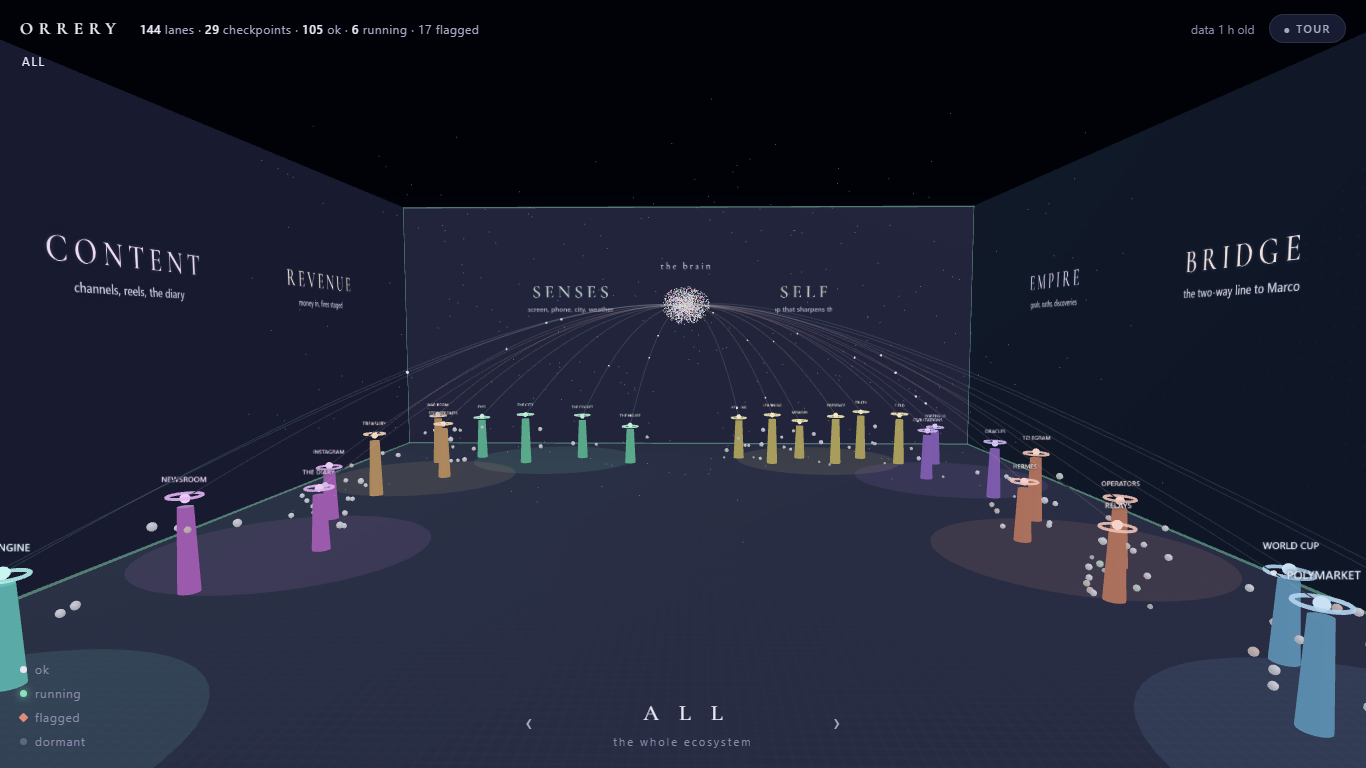
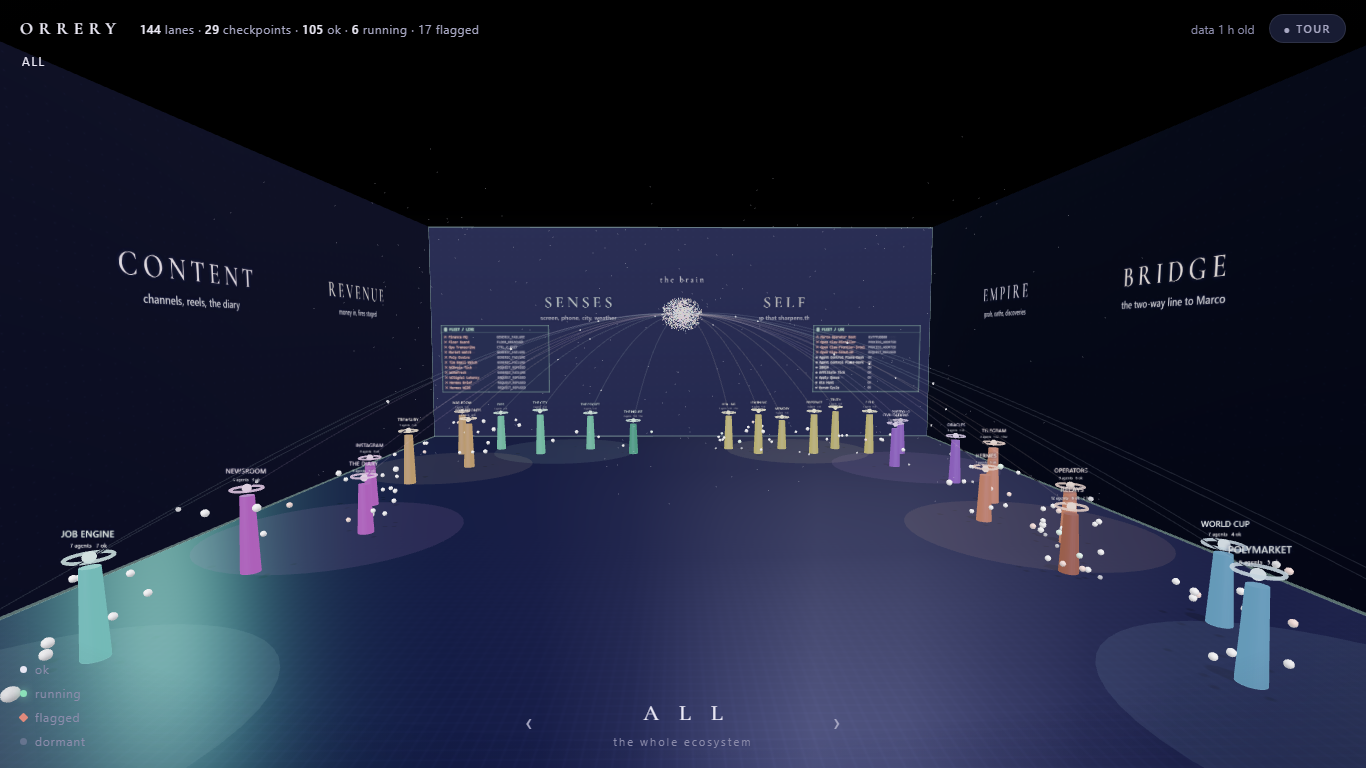
v6: physically-based room — ACES + IBL + shadows, live wall terminals from fleet data, handheld drift, 10s tour

diff --git a/index.html b/index.html
@@ -37,6 +37,10 @@
     overflow: hidden; -webkit-font-smoothing: antialiased;
   }
   #sky { position: fixed; inset: 0; display: block; touch-action: none; }
+  body::after {
+    content: ''; position: fixed; inset: 0; pointer-events: none; z-index: 4;
+    background: radial-gradient(ellipse 130% 105% at 50% 42%, transparent 52%, rgba(8,10,24,.5) 100%);
+  }
 
   #intro {
     position: fixed; inset: 0; display: grid; place-items: center; text-align: center;
@@ -253,6 +257,7 @@
 
 <script type="module">
 import * as THREE from 'three';
+import { RoomEnvironment } from 'three/addons/environments/RoomEnvironment.js';
 
 /* ============================== data ============================== */
 const SAMPLE = {
@@ -289,10 +294,14 @@ let selected = null, focusIdx = -1, query = '', entered = false, reel = false, t
 /* ============================== three scene ============================== */
 const renderer = new THREE.WebGLRenderer({ canvas, antialias: true, alpha: false });
 renderer.setPixelRatio(Math.min(devicePixelRatio, 2));
+renderer.toneMapping = THREE.ACESFilmicToneMapping;
+renderer.toneMappingExposure = 1.02;
+renderer.shadowMap.enabled = true;
+renderer.shadowMap.type = THREE.PCFSoftShadowMap;
 const scene = new THREE.Scene();
 scene.background = new THREE.Color(0x14172b);
 scene.fog = new THREE.Fog(0x14172b, 1300, 3200);
-const camera = new THREE.PerspectiveCamera(54, 1, 1, 4000);
+const camera = new THREE.PerspectiveCamera(60, 1, 1, 4000);
 camera.position.set(0, 260, 1500);
 
 /* the diorama rig — the camera lives INSIDE the room; mouse parallax sells the depth */
@@ -313,9 +322,16 @@ addEventListener('wheel', e => {
 }, { passive: true });
 function flyTo(px, py, pz, tx, ty, tz) { camGoal.pos.set(px, py, pz); camGoal.tgt.set(tx, ty, tz); camGoal.active = true; }
 
-scene.add(new THREE.AmbientLight(0x8a8fc0, .6));
-const key = new THREE.DirectionalLight(0xf0eeff, .8); key.position.set(200, 600, 500); scene.add(key);
-const rim = new THREE.DirectionalLight(0x8be2b9, .25); rim.position.set(-400, 300, -500); scene.add(rim);
+/* image-based lighting — materials get real specular response */
+scene.environment = new THREE.PMREMGenerator(renderer).fromScene(new RoomEnvironment(), .06).texture;
+scene.environmentIntensity = .16;
+scene.add(new THREE.AmbientLight(0x8a8fc0, .3));
+const key = new THREE.DirectionalLight(0xf0eeff, 1.05); key.position.set(120, 900, 240); scene.add(key);
+key.castShadow = true;
+key.shadow.mapSize.set(2048, 2048);
+Object.assign(key.shadow.camera, { left: -760, right: 760, top: 980, bottom: -980, near: 1, far: 2200 });
+key.shadow.bias = -.0004;
+const rim = new THREE.DirectionalLight(0x8be2b9, .3); rim.position.set(-400, 300, -500); scene.add(rim);
 
 /* THE ROOM — the screen is the open face of a box; everything lives inside it */
 const ROOM = { hw: 620, depth: 850, h: 520 };   // walls at x=±hw, back at z=-depth, open front at z=+depth
@@ -341,18 +357,20 @@ const ROOM = { hw: 620, depth: 850, h: 520 };   // walls at x=±hw, back at z=-d
   const floorT = gridTex(false); floorT.repeat.set(8, 11);
   const wallT = gridTex(true); wallT.repeat.set(8, 3);
   const backT = gridTex(true); backT.repeat.set(6, 3);
-  const mat = (t) => new THREE.MeshStandardMaterial({ map: t, color: 0xffffff, roughness: .88, metalness: .18 });
+  const mat = (t) => new THREE.MeshStandardMaterial({ map: t, color: 0x8286ad, roughness: .82, metalness: .2 });
 
-  const floor = new THREE.Mesh(new THREE.PlaneGeometry(ROOM.hw * 2, ROOM.depth * 2), mat(floorT));
-  floor.rotation.x = -Math.PI / 2; scene.add(floor);
+  /* glossy floor — env reflections + received shadows anchor everything to it */
+  const floor = new THREE.Mesh(new THREE.PlaneGeometry(ROOM.hw * 2, ROOM.depth * 2),
+    new THREE.MeshStandardMaterial({ map: floorT, color: 0x8e93c2, roughness: .36, metalness: .5 }));
+  floor.rotation.x = -Math.PI / 2; floor.receiveShadow = true; scene.add(floor);
   const ceil = new THREE.Mesh(new THREE.PlaneGeometry(ROOM.hw * 2, ROOM.depth * 2), new THREE.MeshStandardMaterial({ color: 0x10132a, roughness: .95 }));
   ceil.rotation.x = Math.PI / 2; ceil.position.y = ROOM.h; scene.add(ceil);
   const left = new THREE.Mesh(new THREE.PlaneGeometry(ROOM.depth * 2, ROOM.h), mat(wallT));
-  left.rotation.y = Math.PI / 2; left.position.set(-ROOM.hw, ROOM.h / 2, 0); scene.add(left);
+  left.rotation.y = Math.PI / 2; left.position.set(-ROOM.hw, ROOM.h / 2, 0); left.receiveShadow = true; scene.add(left);
   const right = new THREE.Mesh(new THREE.PlaneGeometry(ROOM.depth * 2, ROOM.h), mat(wallT));
-  right.rotation.y = -Math.PI / 2; right.position.set(ROOM.hw, ROOM.h / 2, 0); scene.add(right);
+  right.rotation.y = -Math.PI / 2; right.position.set(ROOM.hw, ROOM.h / 2, 0); right.receiveShadow = true; scene.add(right);
   const back = new THREE.Mesh(new THREE.PlaneGeometry(ROOM.hw * 2, ROOM.h), mat(backT));
-  back.position.set(0, ROOM.h / 2, -ROOM.depth); scene.add(back);
+  back.position.set(0, ROOM.h / 2, -ROOM.depth); back.receiveShadow = true; scene.add(back);
 
   /* neon edge strips where surfaces meet — the box reads as a box */
   const strip = (w, x, y, z, rotY) => {
@@ -422,7 +440,7 @@ function makePlate(text, opts) {
 
 /* ============================== build world from data ============================== */
 const world = new THREE.Group(); scene.add(world);
-let agentMesh = null, agentData = [], hubMeshes = [], zoneDiscs = [], beams = [], pulseMeshes = [];
+let agentMesh = null, agentData = [], hubMeshes = [], zoneDiscs = [], beams = [], pulseMeshes = [], pillarAnims = [], terms = [];
 const brain = new THREE.Group(); scene.add(brain);
 
 function hsl(h, s, l) { const c = new THREE.Color(); c.setHSL(h / 360, s, l); return c; }
@@ -432,7 +450,7 @@ const STATUS_COLOR = {
 };
 
 function buildWorld() {
-  world.clear(); brain.clear(); hubMeshes = []; zoneDiscs = []; beams = []; pulseMeshes = []; agentData = [];
+  world.clear(); brain.clear(); hubMeshes = []; zoneDiscs = []; beams = []; pulseMeshes = []; agentData = []; pillarAnims = []; terms = [];
 
   /* the brain — a particle heart floating over the center of the base */
   {
@@ -502,7 +520,10 @@ function buildWorld() {
       );
       pillar.position.set(hx, H / 2, hz);
       pillar.userData = { kind: 'hub', dept: d.id, group: g.id };
+      pillar.castShadow = true;
       zone.add(pillar); hubMeshes.push(pillar);
+      const members = d.nodes.filter(n => n.group === g.id);
+      pillarAnims.push({ mat: pillar.material, running: members.some(n => n.status === 'running'), phase: gi * 1.7 });
 
       const ring = new THREE.Mesh(
         new THREE.TorusGeometry(15, 1.4, 10, 48),
@@ -521,6 +542,10 @@ function buildWorld() {
 
       const hl = makeLabel(g.label.toUpperCase(), { size: 34, hue: d.hue, scale: .22 });
       hl.position.set(hx, H + 26, hz); zone.add(hl);
+      /* live readout under the name — real member counts, nothing invented */
+      const okN = members.filter(n => n.status === 'ok').length, runN = members.filter(n => n.status === 'running').length;
+      const ro = makeLabel(`${members.length} agents · ${okN} ok${runN ? ' · ' + runN + ' live' : ''}`, { size: 22, scale: .2 });
+      ro.position.set(hx, H + 17, hz); zone.add(ro);
 
       d.hubs[g.id] = { ...g, x: d.cx + hx, z: d.cz + hz, y: H + 8, localX: hx, localZ: hz, H, ring };
 
@@ -544,6 +569,7 @@ function buildWorld() {
     count
   );
   agentMesh.instanceMatrix.setUsage(THREE.DynamicDrawUsage);
+  agentMesh.castShadow = true;
   world.add(agentMesh);
   const mtx = new THREE.Matrix4();
   nodes.forEach((n, i) => {
@@ -572,6 +598,51 @@ function buildWorld() {
     m.userData = { beam: Math.floor(Math.random() * beams.length), p: Math.random(), sp: .0016 + Math.random() * .003 };
     scene.add(m); pulseMeshes.push(m);
   }
+
+  /* wall terminals — live system log rendered from the real fleet, like the floating
+     windows in the reference. Every line is a real lane's real last result. */
+  const mkTerm = (w, h, title) => {
+    const c = document.createElement('canvas'); c.width = 640; c.height = 400;
+    const tex = new THREE.CanvasTexture(c); tex.anisotropy = 4;
+    const mesh = new THREE.Mesh(new THREE.PlaneGeometry(w, h),
+      new THREE.MeshBasicMaterial({ map: tex, transparent: true, opacity: .94 }));
+    return { c, g: c.getContext('2d'), tex, mesh, title, row: 0 };
+  };
+  const termNodes = [...nodes].sort((a, b) =>
+    ({ running: 0, flag: 1, ok: 2, dormant: 3 }[a.status] - { running: 0, flag: 1, ok: 2, dormant: 3 }[b.status]));
+  const TCOL = { running: '#8be2b9', ok: '#c9c7dd', flag: '#e08a7c', dormant: '#5d6084' };
+  function drawTerm(T) {
+    const { g, c } = T;
+    g.fillStyle = 'rgba(10,12,26,.96)'; g.fillRect(0, 0, c.width, c.height);
+    g.strokeStyle = 'rgba(139,226,185,.45)'; g.lineWidth = 2; g.strokeRect(1, 1, c.width - 2, c.height - 2);
+    g.fillStyle = '#8be2b9'; g.font = '600 22px Consolas, monospace';
+    g.fillText('▮ ' + T.title, 18, 34);
+    g.fillStyle = 'rgba(139,226,185,.3)'; g.fillRect(0, 46, c.width, 1);
+    g.font = '20px Consolas, monospace';
+    for (let i = 0; i < 11; i++) {
+      const n = termNodes[(T.row + i) % termNodes.length];
+      const y = 78 + i * 30;
+      g.fillStyle = TCOL[n.status] || TCOL.ok;
+      const line = `${n.status === 'running' ? '►' : n.status === 'flag' ? '✕' : '●'} ${n.label}`;
+      g.fillText(line.slice(0, 26), 18, y);
+      g.fillStyle = 'rgba(140,140,171,.85)';
+      g.fillText(String(n.detail || n.cadence || '').slice(0, 24), 330, y);
+    }
+    T.tex.needsUpdate = true;
+  }
+  const t1 = mkTerm(268, 168, 'FLEET / LIVE');
+  t1.mesh.position.set(-462, 196, -ROOM.depth + 2.5);
+  scene.add(t1.mesh); terms.push(t1);
+  const t2 = mkTerm(268, 168, 'FLEET / LOG');
+  t2.mesh.position.set(462, 196, -ROOM.depth + 2.5); t2.row = 11;
+  scene.add(t2.mesh); terms.push(t2);
+  terms.forEach(drawTerm);
+  terms.tick = (t) => {
+    if (!terms.last || t - terms.last > 1400) {
+      terms.last = t;
+      for (const T of terms) { T.row = (T.row + 1) % termNodes.length; drawTerm(T); }
+    }
+  };
 }
 
 /* ============================== per-frame ============================== */
@@ -614,8 +685,15 @@ function frame(now) {
   const pk = reel ? 0 : (level === 0 ? 1 : .45);
   par.sx += (par.x - par.sx) * .05;
   par.sy += (par.y - par.sy) * .05;
-  camera.position.set(camBase.x + par.sx * 85 * pk, camBase.y - par.sy * 48 * pk, camBase.z);
+  /* handheld drift — the scene is never perfectly still, so depth never stops reading */
+  const dx = reduced ? 0 : Math.sin(t * .00031) * 7 + Math.sin(t * .00013) * 4;
+  const dy = reduced ? 0 : Math.sin(t * .00042 + 2) * 4;
+  camera.position.set(camBase.x + par.sx * 85 * pk + dx, camBase.y - par.sy * 48 * pk + dy, camBase.z);
   camera.lookAt(tgtBase);
+  if (!reduced) {
+    for (const pa of pillarAnims) if (pa.running) pa.mat.emissiveIntensity = .9 + Math.sin(t * .004 + pa.phase) * .38;
+    if (terms.tick) terms.tick(t);
+  }
   if (!reduced) brain.rotation.y = t * .00012;
   for (const d of deptList) if (d.hubs) for (const h of Object.values(d.hubs)) {
     if (!reduced && h.ring) { h.ring.rotation.z = t * .0004 * h.ring.userData.spin; h.ring.position.y = h.ring.userData.baseY + Math.sin(t * .0009 + h.ring.userData.spin * 9) * 2.5; }
@@ -806,29 +884,18 @@ search.addEventListener('input', () => {
 
 /* ============================== reel mode ============================== */
 function tourKeys() {
-  /* fly IN through the open face, visit two rooms, pull back out */
-  const K = [{ t: 0, pos: [0, 300, 1560], tgt: [0, 200, -350] }];
-  let t = 4200;
-  const stops = [];
-  const ig = deptList.find(d => Object.keys(d.hubs || {}).some(g => /instagram/.test(g)));
-  if (ig) stops.push([ig, 'instagram']);
-  const selfD = deptList.find(d => d.id === 'self' && d.hubs && d.hubs.healing);
-  if (selfD) stops.push([selfD, 'healing']);
-  if (!stops.length && deptList[0]) stops.push([deptList[0], Object.keys(deptList[0].hubs)[0]]);
-  for (const [d, gid] of stops) {
-    K.push({ t, pos: [d.cx + d.nx * 420, 240, d.cz + d.nz * 420], tgt: [d.cx, 90, d.cz], act: () => { close(); setLevelSilent(1, deptList.indexOf(d)); } });
-    t += 5200;
-    const hub = d.hubs[gid];
-    if (hub) {
-      K.push({ t, pos: [hub.x + d.nx * 180, hub.y + 46, hub.z + d.nz * 180], tgt: [hub.x, hub.y - 14, hub.z], act: () => setLevelSilent(2, deptList.indexOf(d), gid) });
-      t += 4800;
-      const star = d.nodes.find(n => n.group === gid && n.replaces) || d.nodes.find(n => n.group === gid);
-      if (star) { K.push({ t, pos: [hub.x + d.nx * 125, hub.y + 24, hub.z + d.nz * 125], tgt: [hub.x, hub.y - 18, hub.z], act: () => open(star) }); t += 5600; }
-    }
-  }
-  K.push({ t, pos: [0, 260, 810], tgt: [0, 170, -350], act: () => { close(); setLevelSilent(0); } });
-  K.push({ t: t + 5000, pos: [0, 290, 1350], tgt: [0, 190, -350] });
-  return K;
+  /* exactly 10 seconds: dive in → one room → one monument → pull out */
+  const d = deptList.find(x => Object.keys(x.hubs || {}).some(g => /instagram/.test(g))) || deptList[0];
+  const gid = Object.keys(d.hubs).find(g => /instagram/.test(g)) || Object.keys(d.hubs)[0];
+  const hub = d.hubs[gid];
+  return [
+    { t: 0, pos: [0, 310, 1580], tgt: [0, 200, -350] },
+    { t: 2200, pos: [0, 250, 830], tgt: [0, 160, -350], act: () => { close(); setLevelSilent(0); } },
+    { t: 4200, pos: [d.cx + d.nx * 420, 240, d.cz + d.nz * 420], tgt: [d.cx, 90, d.cz], act: () => { close(); setLevelSilent(1, deptList.indexOf(d)); } },
+    { t: 6400, pos: [hub.x + d.nx * 170, hub.y + 42, hub.z + d.nz * 170], tgt: [hub.x, hub.y - 14, hub.z], act: () => setLevelSilent(2, deptList.indexOf(d), gid) },
+    { t: 8300, pos: [0, 250, 830], tgt: [0, 160, -350], act: () => { close(); setLevelSilent(0); } },
+    { t: 10000, pos: [0, 280, 1040], tgt: [0, 175, -350] },
+  ];
 }
 function setLevelSilent(lv, di, gid) { setLevel(lv, di, gid); camGoal.active = false; }
 const smooth = u => u * u * (3 - 2 * u);
